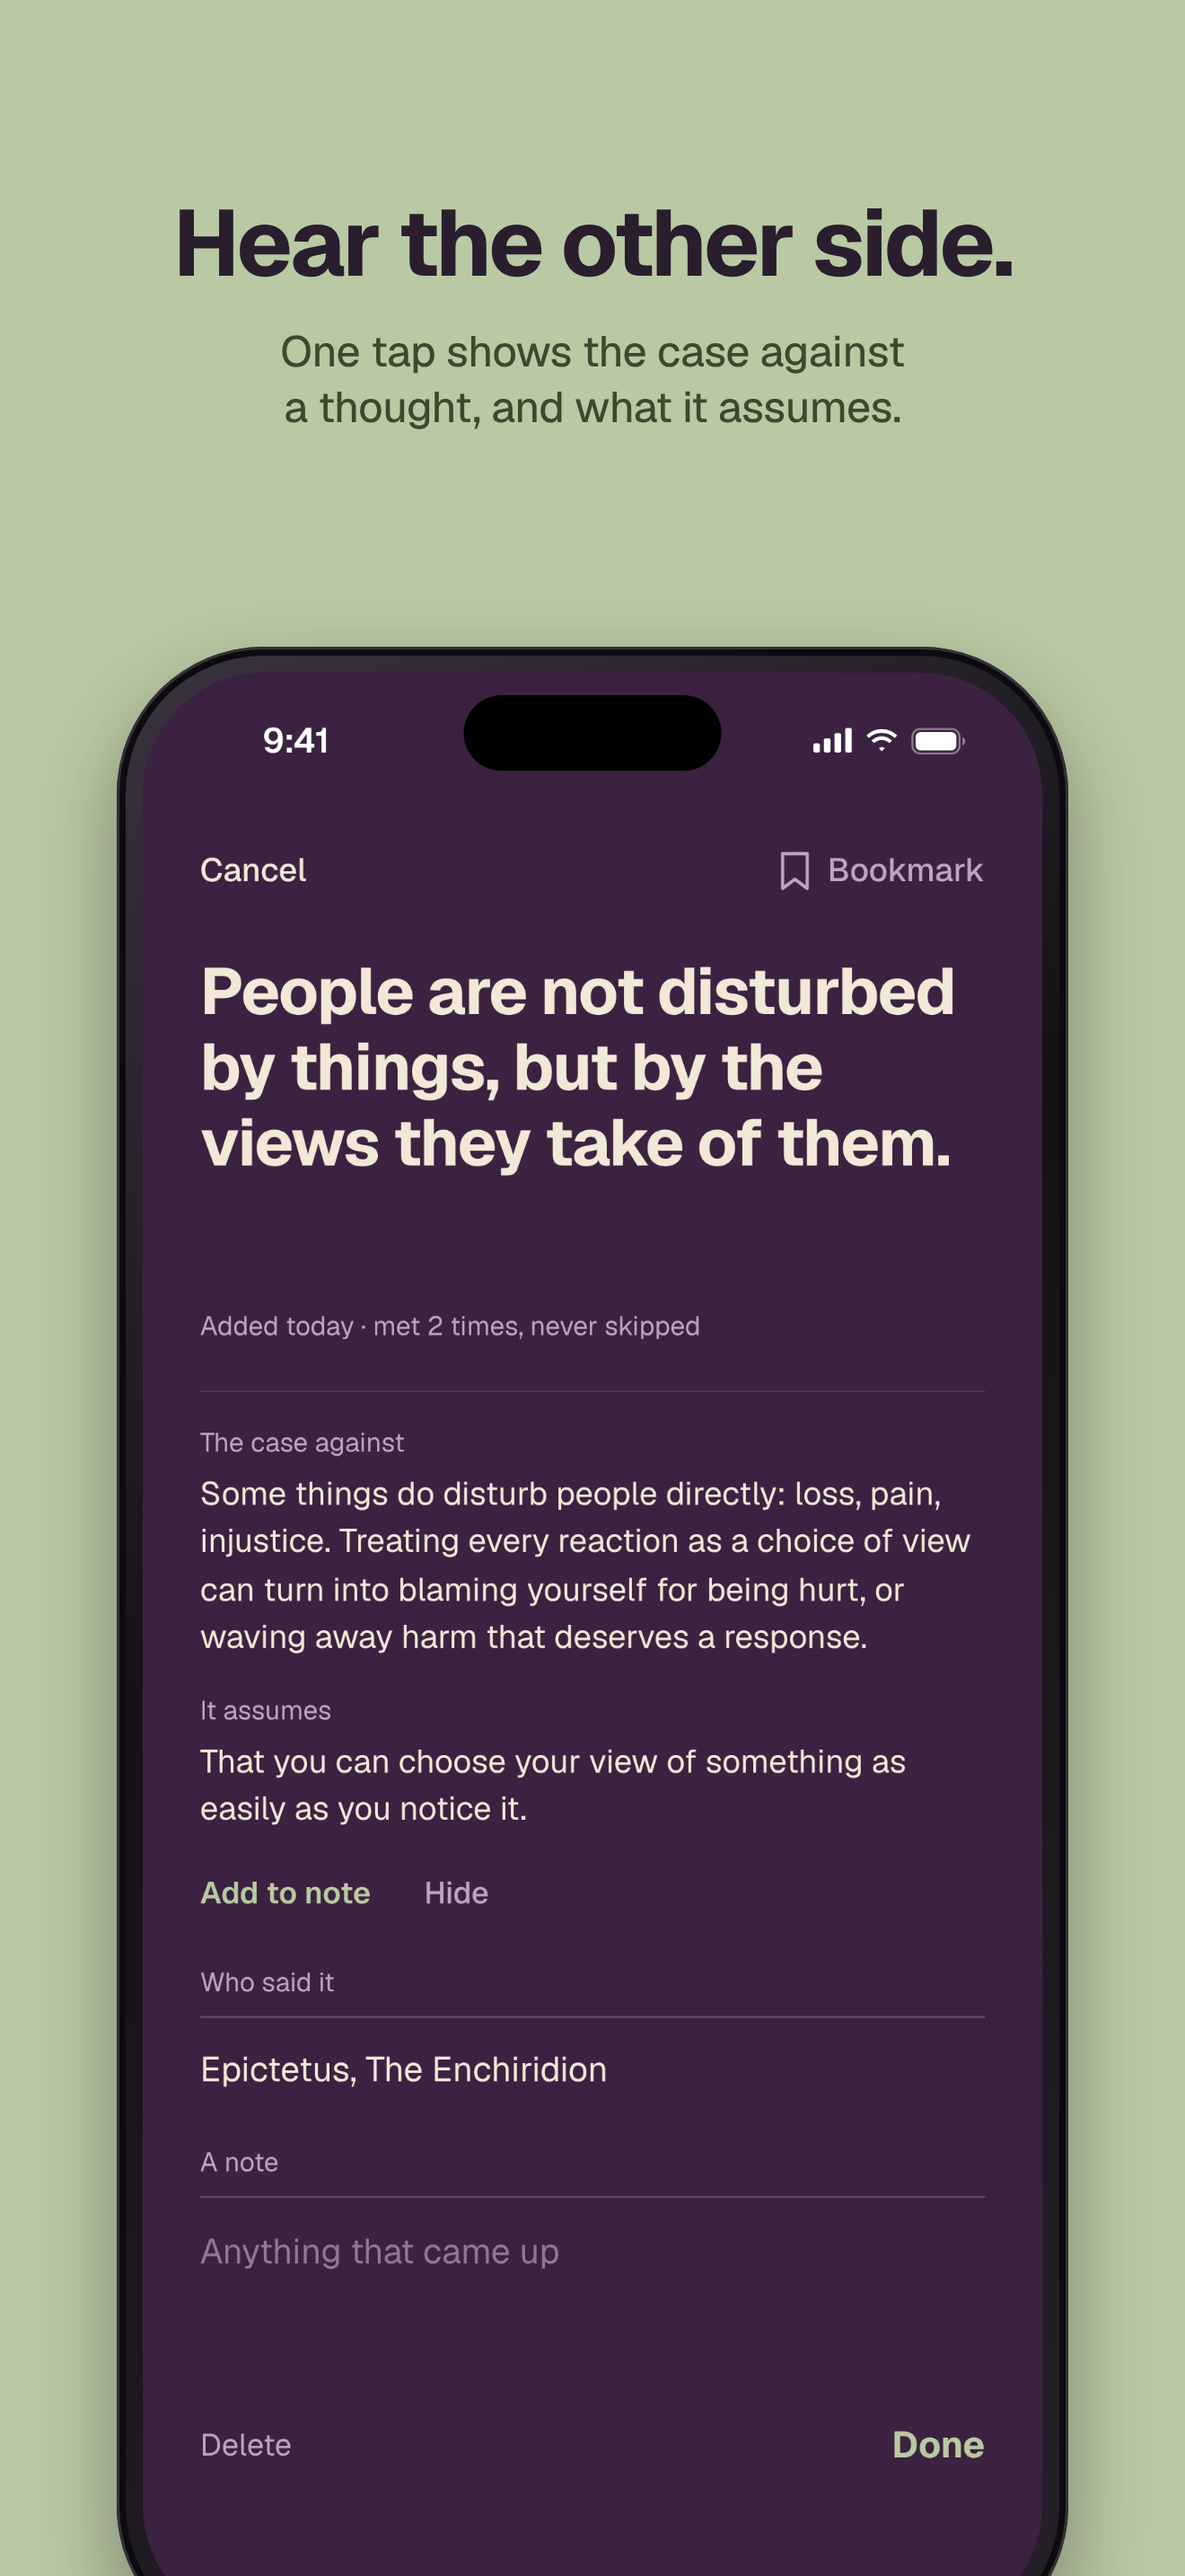
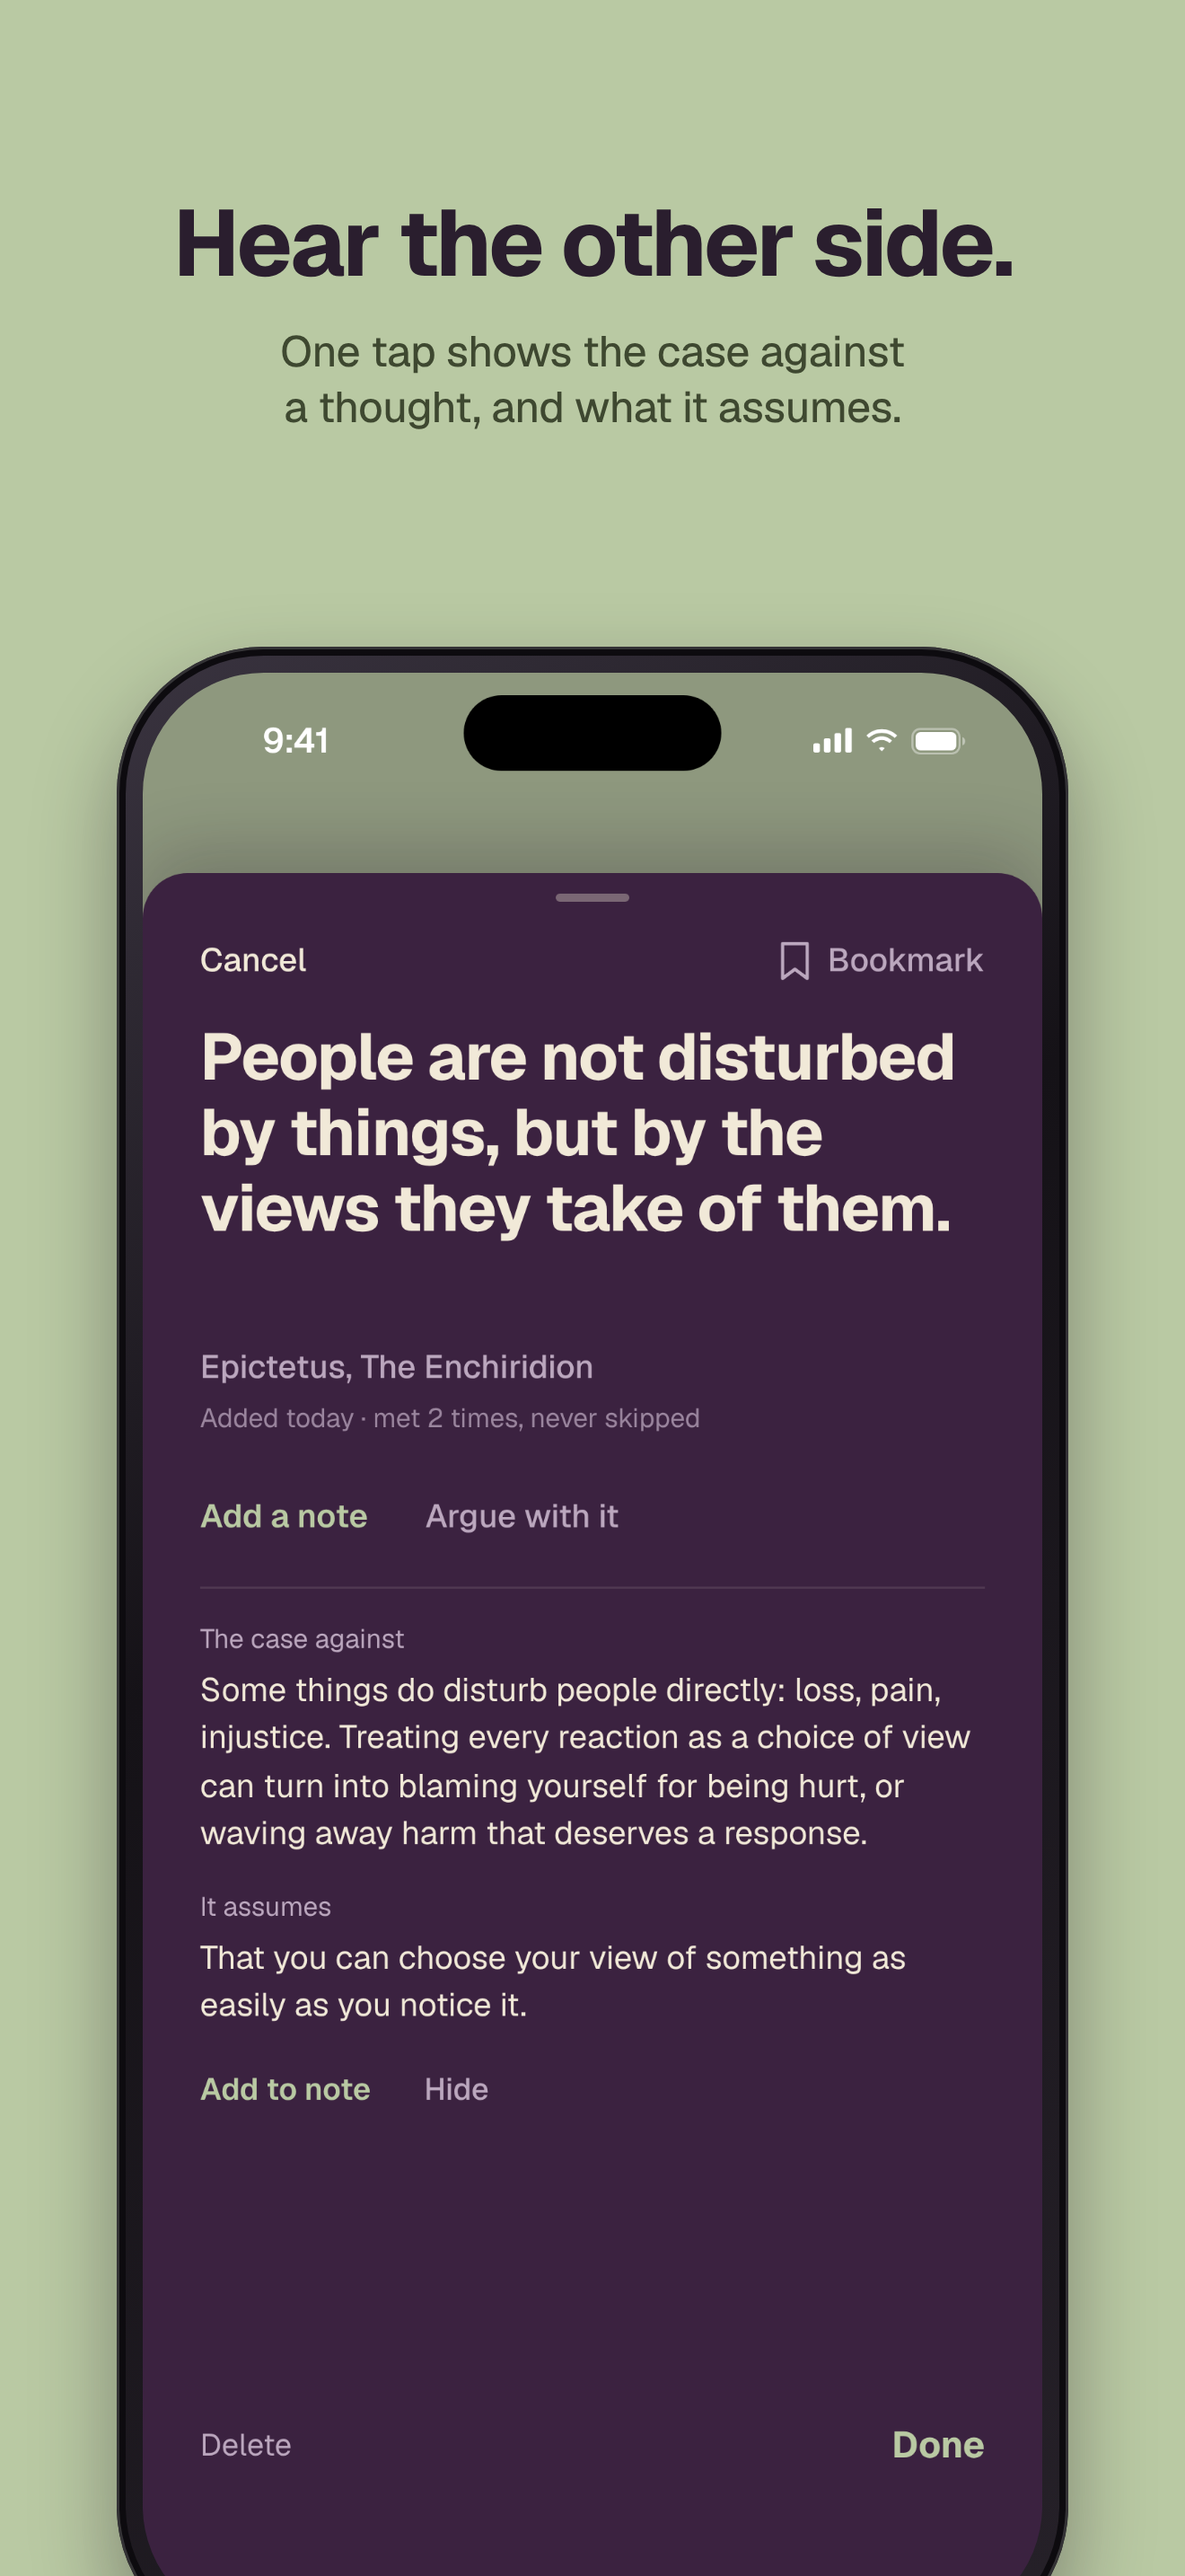
Fresh screenshots for the website and the App Store
Remade from the current app (2.23.0): the Edit sheet with Argue with it, the
number-first Insights, Your thoughts by where you stand, Not a tension on the
pair screen. Website images in site/img; App Store images in appstore/screenshots
(8, 1320 x 2868). Sample history no longer shows one voice at 100%.

Claude-Session: https://claude.ai/code/session_01JnUP81AxkCDPkAJ98wbmfa

diff --git a/scripts/shots.js b/scripts/shots.js
@@ -55,6 +55,8 @@ function seed(now) {
   const log = [];
   [[ids.epictetus, "thought"], [ids.rest, "thought"], [ids.dread, "thought"], [ids.silence, "thought"], [ids.franklin, "skipped"], [ids.hard, "skipped"], [ids.busy, "seen"], [ids.power, "thought"]]
     .forEach(([id, kind], i) => { for (let k = 0; k < 3; k++) log.push({ at: at(1 + i + k * 7, kind === "thought" ? (k === 2 ? 20 : 6) : 13), id, kind, ms: kind === "thought" ? 44000 : 6000, pile: "due" }); });
+  // a few ordinary passes, so no voice reads as 100%
+  [ids.epictetus, ids.epictetus, ids.rest, ids.silence, ids.dread].forEach((id, i) => log.push({ at: at(2 + i * 3, 13), id, kind: "seen", ms: 24000, pile: "due" }));
   log.sort((a, b) => (a.at < b.at ? -1 : 1));
   const ten = { pairs: [{ a: ids.first2, b: ids.rest, at: at(0, 7) }, { a: ids.hard, b: ids.silence, at: at(1, 7) }], gone: [], ran: C.dayKey(now), viewed: null };
   return { st, ids, log, ten };
